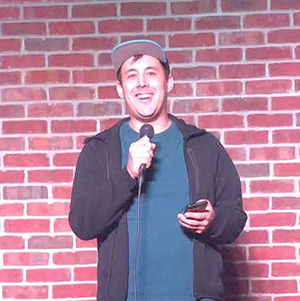
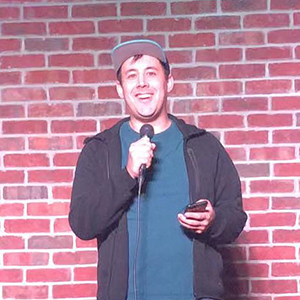
about page image sizing, small

diff --git a/src/pages/AboutPage/AboutPage.data.ts b/src/pages/AboutPage/AboutPage.data.ts
@@ -21,6 +21,7 @@ import ImgStandupComedySmall from '~images/about/standup-comedy-small.jpg';
 import ImgStandupComedy from '~images/about/standup-comedy.jpg';
 import ImgTaeKwonDoSmall from '~images/about/taekwondo-small.jpg';
 import ImgTaeKwonDo from '~images/about/taekwondo.jpg';
+import ImgProfilePicSmall from '~images/about/travis-and-lindsey-hoki-small.png';
 import ImgProfilePic from '~images/about/travis-and-lindsey-hoki.png';
 import ImgWeddingSmall from '~images/about/wedding-small.jpg';
 import ImgWedding from '~images/about/wedding.jpg';
@@ -41,7 +42,7 @@ export const ABOUT_PAGE_DATA: AboutType[] = [
 			'When I’m not staring at a code editor or building things for the web, here is a little look at what keeps me busy, what I love doing, and who I am outside of work.',
 		imgLarge: ImgProfilePic,
 		imgLargeDimensions: [300, 300],
-		imgSmall: ImgProfilePic,
+		imgSmall: ImgProfilePicSmall,
 		itemKey: '1',
 	},
 	{
